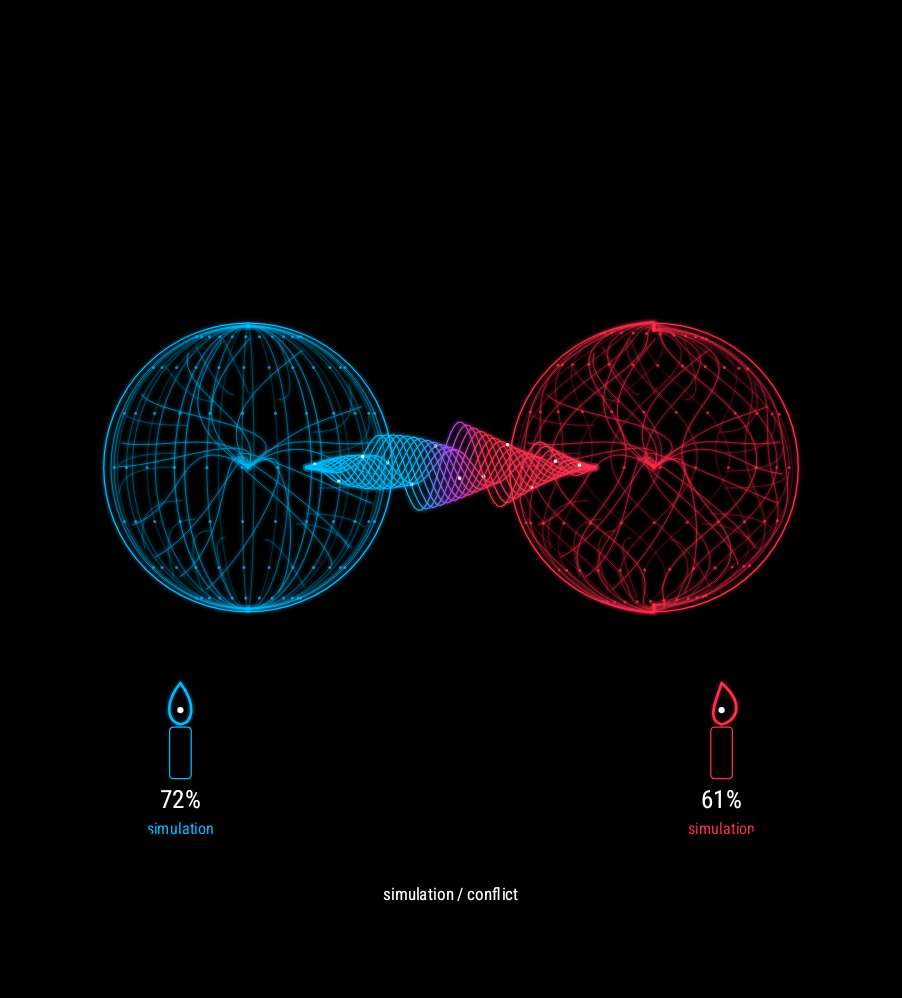
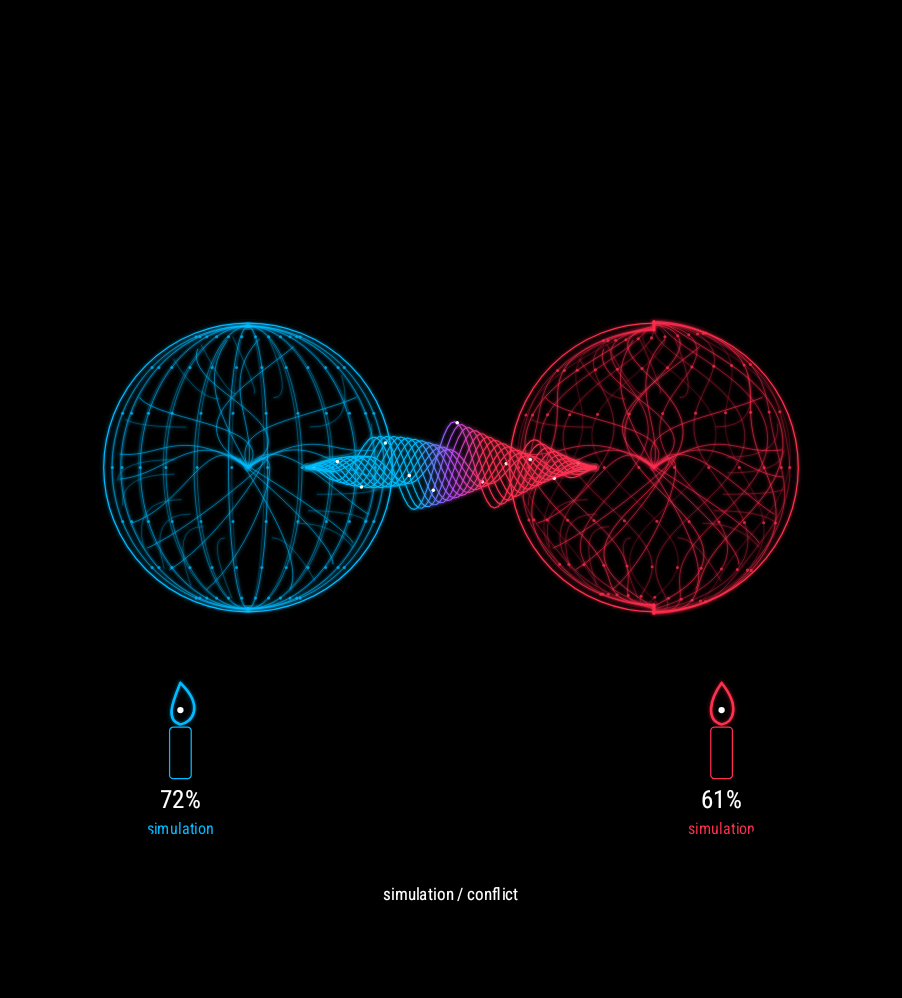
Optimize neural transition geometry

Changed region(s): [[0.1242, 0.3106, 0.9002, 0.6212], [0.7761, 0.6834, 0.8381, 0.7144], [0.1863, 0.6834, 0.2173, 0.7455]]

diff --git a/app/src/main/java/com/agentfold/app/ui/neural/NeuralDialView.kt b/app/src/main/java/com/agentfold/app/ui/neural/NeuralDialView.kt
@@ -22,6 +22,15 @@ class NeuralDialView(context: Context, val controller: NeuralController) : View(
     private val condensedTypeface = Typeface.create("sans-serif-condensed", Typeface.NORMAL)
     private var balanceShader: LinearGradient? = null
     private var shaderBalance = Float.NaN
+    private val sphereLatitude = FloatArray(65) { -PI.toFloat() / 2 + it / 64f * PI.toFloat() }
+    private val sphereSin = FloatArray(65) { sin(sphereLatitude[it]) }
+    private val sphereCos = FloatArray(65) { cos(sphereLatitude[it]) }
+    private val sphereSin3 = FloatArray(65) { sin(sphereLatitude[it] * 3f) }
+    private val sphereCos3 = FloatArray(65) { cos(sphereLatitude[it] * 3f) }
+    private val sphereSin4 = FloatArray(65) { sin(sphereLatitude[it] * 4f) }
+    private val sphereCos4 = FloatArray(65) { cos(sphereLatitude[it] * 4f) }
+    private val tendrilU = FloatArray(81) { it / 80f }
+    private val tendrilEnvelope = FloatArray(81) { sin(tendrilU[it] * PI.toFloat()) }
     private val weights = FloatArray(7).apply { this[0] = 1f }
     private val startWeights = weights.copyOf()
     private var snapshot = controller.snapshot
@@ -93,7 +102,9 @@ class NeuralDialView(context: Context, val controller: NeuralController) : View(
         } else previousFrame = 0
         val fraction = if (ValueAnimator.areAnimatorsEnabled()) ((now - transitionStart) / 1000f).coerceIn(0f, 1f) else 1f
         val eased = fraction * fraction * (3 - 2 * fraction)
-        weights.indices.forEach { weights[it] = startWeights[it] * (1 - eased) + (if (snapshot.state.ordinal == it) eased else 0f) }
+        for (i in weights.indices) {
+            weights[i] = startWeights[i] * (1 - eased) + (if (snapshot.state.ordinal == i) eased else 0f)
+        }
         val save = canvas.save()
         try {
             val side = min(width.toFloat(), height.toFloat())
@@ -147,16 +158,28 @@ class NeuralDialView(context: Context, val controller: NeuralController) : View(
         circle(c, cx, cy, r, shell, 1.4f, alpha * if (r > 300f) detail else 1f)
         if (detail < .001f) return
         // Project independently twisting spherical meridians with depth shading.
+        // Latitude terms are immutable; addition identities avoid four extra trig calls per point.
         val lanes = if (lowPower) 12 else 24
+        val clockSin = sin(clock)
+        val clockCos = cos(clock)
+        val twistClock = clock * .7f
+        val twistClockSin = sin(twistClock)
+        val twistClockCos = cos(twistClock)
         for (lane in 0 until lanes) {
             path.reset()
+            val phase = lane * 2f * PI.toFloat() / lanes + clock * .19f
             for (step in 0..64) {
-                val latitude = -PI.toFloat() / 2 + step / 64f * PI.toFloat()
-                val phase = lane * 2f * PI.toFloat() / lanes + clock * .19f
-                val longitude = phase + twist * sin(latitude * 3 + clock * .7f) * 1.45f
-                val depth = sin(longitude) * cos(latitude)
-                val x = cx + cos(longitude) * cos(latitude) * r * (.95f + twist * .05f * sin(clock + latitude * 4))
-                val y = cy + sin(latitude) * r * (.98f - twist * .12f * cos(longitude + clock))
+                val latitudeSin = sphereSin[step]
+                val latitudeCos = sphereCos[step]
+                val twistWave = sphereSin3[step] * twistClockCos + sphereCos3[step] * twistClockSin
+                val longitude = phase + twist * twistWave * 1.45f
+                val longitudeSin = sin(longitude)
+                val longitudeCos = cos(longitude)
+                val depth = longitudeSin * latitudeCos
+                val radiusWave = sphereSin4[step] * clockCos + sphereCos4[step] * clockSin
+                val x = cx + longitudeCos * latitudeCos * r * (.95f + twist * .05f * radiusWave)
+                val shiftedLongitudeCos = longitudeCos * clockCos - longitudeSin * clockSin
+                val y = cy + latitudeSin * r * (.98f - twist * .12f * shiftedLongitudeCos)
                 if (step == 0) path.moveTo(x, y) else path.lineTo(x, y)
                 if (step % 8 == 0 && depth > 0f) dot(c, x, y, 1.7f, color, alpha * .75f)
             }
@@ -188,20 +211,30 @@ class NeuralDialView(context: Context, val controller: NeuralController) : View(
                 floatArrayOf(0f, (shaderBalance - .12f).coerceIn(.01f, .85f), shaderBalance.coerceIn(.02f, .98f),
                     (shaderBalance + .12f).coerceIn(.15f, .99f), 1f), Shader.TileMode.CLAMP)
         }
+        val frequency = PI.toFloat() * (4f + conflict * 3f)
+        val phaseStep = frequency / 80f
+        val phaseStepSin = sin(phaseStep)
+        val phaseStepCos = cos(phaseStep)
+        val basePhase = -clock * 1.8f
         for (strand in 0..11) {
             path.reset()
+            var phaseSin = sin(basePhase + strand * .53f)
+            var phaseCos = cos(basePhase + strand * .53f)
+            val amplitude = 20f + strand * 2.8f
             for (step in 0..80) {
-                val u = step / 80f
+                val u = tendrilU[step]
                 val x = -160f + u * 320f
-                val envelope = sin(u * PI.toFloat())
-                val y = -35f + sin(u * PI.toFloat() * (4 + conflict * 3) - clock * 1.8f + strand * .53f) * envelope * (20f + strand * 2.8f)
+                val y = -35f + phaseSin * tendrilEnvelope[step] * amplitude
                 if (step == 0) path.moveTo(x, y) else path.lineTo(x, y)
+                val nextSin = phaseSin * phaseStepCos + phaseCos * phaseStepSin
+                phaseCos = phaseCos * phaseStepCos - phaseSin * phaseStepSin
+                phaseSin = nextSin
             }
             ink.shader = balanceShader
             glow(c, path, Color.WHITE, 1.2f, alpha)
             ink.shader = null
             val u = ((clock * .18f + strand * .083f) % 1f)
-            val y = -35f + sin(u * PI.toFloat() * (4 + conflict * 3) - clock * 1.8f + strand * .53f) * sin(u * PI.toFloat()) * (20f + strand * 2.8f)
+            val y = -35f + sin(u * frequency + basePhase + strand * .53f) * sin(u * PI.toFloat()) * amplitude
             dot(c, -160f + u * 320f, y, 2f, Color.WHITE, alpha)
         }
     }

diff --git a/app/src/androidTest/java/com/agentfold/app/NeuralRenderingTest.kt b/app/src/androidTest/java/com/agentfold/app/NeuralRenderingTest.kt
@@ -48,4 +48,20 @@ class NeuralRenderingTest {
             onMain(scenario) { assertFalse(it.visualController.snapshot.preview) }
         }
     }
+
+    @Test fun exerciseAllStatesWithoutCapture() {
+        ActivityScenario.launch(MainActivity::class.java).use { scenario ->
+            for (state in VisualState.entries) {
+                onMain(scenario) { it.visualController.preview(state) }
+                Thread.sleep(1300)
+                onMain(scenario) { activity ->
+                    val view = requireNotNull(find(activity.window.decorView))
+                    assertTrue(view.width > 0 && view.height > 0)
+                    assertFalse(view.contentDescription.toString().contains("unavailable"))
+                    assertTrue(view.contentDescription.toString().contains("simulation"))
+                }
+            }
+            onMain(scenario) { it.visualController.endPreview() }
+        }
+    }
 }

diff --git a/docs/NEURAL_UI.md b/docs/NEURAL_UI.md
@@ -156,12 +156,10 @@ not changed.
 
 ## Integration-readiness cycle — 2026-11-13
 
-Branch `feature/neural-dial-ui` was inspected clean at commit
-`f69c3cce3ba2cc0a9c7247e059cb79c43f2a78cb`. The branch is pushed and the verified comparison URL is
-<https://github.com/spirokopita/agentic-fold-test/compare/main...feature/neural-dial-ui?expand=1>.
-No existing PR could be queried and no draft PR could be created because GitHub CLI has no authenticated
-session and the browser access host is unavailable. The exact draft body is retained in
-`docs/DRAFT_PR.md`; PR creation is not claimed complete.
+Branch `feature/neural-dial-ui`, remote branch and draft PR #2 were confirmed at checkpoint
+`2f0170b56895fa11f48bada8a699f75393f87fbb` before this cycle.
+Draft PR: <https://github.com/spirokopita/agentic-fold-test/pull/2>. Keep it draft; do not merge.
+The exact current PR body remains mirrored in `docs/DRAFT_PR.md`.
 
 ### Fresh visual evidence and fidelity matrix
 
@@ -223,7 +221,57 @@ Outstanding: authenticated draft PR creation; recovery of all 24 real reference 
 CPU/GPU/allocation/battery/fold testing; owner voice/widget/TalkBack/live-provider/SAF/permission and
 device-automation checks; production signing/migration.
 
-**Exact next engineering action:** authenticate GitHub in an authorised browser or GitHub CLI, create
-the draft PR using `docs/DRAFT_PR.md`, then recover
-`AgenticFold-AI-UI-All-Chat-Images-2026-11-13.zip` and perform an asset-by-asset visual/motion
-comparison before any renderer fidelity changes.
+**Exact next engineering action:** connect an authorised physical Fold, run the no-capture harness and
+Perfetto workload against its explicit serial without clearing app data, then recover
+`AgenticFold-AI-UI-All-Chat-Images-2026-11-13.zip` from the ChatGPT Library and perform the
+asset-by-asset visual/motion comparison before any fidelity-driven renderer changes.
+
+## Performance optimisation cycle — 2026-11-13
+
+Perfetto was recorded before code changes with the official recorder. The pre-change capture trace
+reported 201 main-thread `Record View#draw()` calls totalling 897.64 ms (4.47 ms average), but
+`postAndWait` totalled 14,321.72 ms (71.25 ms average). Frame timeline entries were dominated by
+SurfaceFlinger CPU deadline misses and buffer stuffing. This separates material emulator/HWUI
+synchronization from Kotlin draw-recording cost. The capture test also draws and compresses seven
+full-size PNGs on the Activity thread, so its historical 40 ms median / 109 ms P95 is not a pure
+renderer benchmark.
+
+A new `exerciseAllStatesWithoutCapture` instrumentation test exercises the identical seven states and
+1.3-second observation windows without bitmap creation or PNG compression. Three pre-change and three
+post-change runs used the same eight-second in-flight `dumpsys gfxinfo` sampling procedure:
+
+| No-capture three-run median | Before | After | Change |
+| --- | ---: | ---: | ---: |
+| CPU frame median | 53 ms | 40 ms | -24.5% |
+| CPU frame P95 | 200 ms | 150 ms | -25.0% |
+| modern deadline-miss rate | 49.07% | 34.87% | -14.20 percentage points |
+| frames rendered in sample | 108 | 151 | +39.8% |
+| GPU frame median | 18 ms | 17 ms | effectively unchanged |
+
+The optimization preserves all lane, sample, strand and glow counts. It precomputes immutable sphere
+latitude sine/cosine terms and tendril envelopes, applies angle-addition identities for per-point
+sphere deformation, and advances evenly spaced tendril phases by recurrence rather than evaluating a
+sine for every sample. Fresh captures were inspected: both blue boundaries, independent white packets,
+sphere deformation, branches, app link, braided peer strands, infection progression, candles and
+simulation labels remain present.
+
+The single post-change traced PNG-capture sample was noisier than the pre-change trace, with
+`postAndWait` averaging 81.56 ms versus 71.25 ms. It is retained as evidence of emulator variability,
+not claimed as an improvement. GPU sentinel buckets of 4950 ms were emitted in some in-flight samples
+and are not treated as literal GPU durations. No 60 FPS claim is made. Full analysis and reproducible
+SQL are in `docs/PERFETTO_NEURAL_ANALYSIS.md`; raw 22.9/20.8 MB traces are retained locally under
+`app/build/reports/perfetto/` and excluded from Git.
+
+Post-change verification on `Medium_Phone` API 35:
+
+- unit tests: 19 passed, 0 failed, 0 skipped;
+- APK and Android-test APK assembly: passed;
+- focused capture workload: 1 passed;
+- no-capture harness: three direct runs passed;
+- complete instrumentation suite: 21 passed, 0 failed, 0 skipped, 0 unfinished in 2m44s;
+- all five PDF tests, rotation/STOP, navigation, fallback/lifecycle coverage and preview isolation remain green.
+
+Only `emulator-5554` was attached; no physical Fold was available. No physical install, permission,
+accessibility, provider or automation action was attempted. The reference archive and its named PNG/GIF
+members were searched in the project, Downloads, Documents and Desktop and remain inaccessible. The
+ChatGPT Library is outside this IDE session, so fidelity remains UNVERIFIED.

diff --git a/docs/PERFETTO_NEURAL_ANALYSIS.md b/docs/PERFETTO_NEURAL_ANALYSIS.md
@@ -1,0 +1,97 @@
+# Neural transition Perfetto analysis — API 35 emulator
+
+## Question
+
+Which part of the seven-state workload is responsible for the reported frame misses, and does the
+renderer optimization reduce comparable renderer-only cost?
+
+## Hardware and traces
+
+- Device: Android Studio `Medium_Phone` AVD, `sdk_gphone64_x86_64`, Android 15 / API 35.
+- Package: `com.agentfold.app.recovery`.
+- Pre-change trace: `app/build/reports/perfetto/neural-transition-before.perfetto-trace`
+  (22,925,660 bytes).
+- Post-change trace: `app/build/reports/perfetto/neural-transition-after.perfetto-trace`
+  (20,775,410 bytes).
+- Recorder: official Perfetto `record_android_trace`, 30 seconds, 64 MiB, categories
+  `sched gfx view wm am freq`, app-scoped atrace.
+- Trace processor: Perfetto v58.3.
+- Trace integrity: no positive drop/loss/failure stats were returned.
+
+Raw traces are retained locally under the ignored Gradle build directory and are not committed because
+they total about 43 MiB. Re-run commands and validated queries are recorded below.
+
+## Findings
+
+- [SQL] In the pre-change capture trace, main-thread `Record View#draw()` accounted for 897.64 ms
+  across 201 calls (4.47 ms average), whereas `postAndWait` accounted for 14,321.72 ms
+  (71.25 ms average). `draw-VRI[MainActivity]` totalled 15,498.19 ms.
+- [SQL] Frame-timeline jank was dominated by SurfaceFlinger CPU deadline misses and buffer stuffing.
+- [INFERRED] The emulator/HWUI synchronization path, not Kotlin geometry alone, dominates the
+  screenshot workload. PNG capture additionally performs `view.draw(Canvas(bitmap))` and
+  `Bitmap.compress` on the Activity thread, so the original 40/109 ms result is not a clean
+  animation-only benchmark.
+- [SQL] The post-change traced capture sample was noisier: `Record View#draw()` averaged 7.01 ms and
+  `postAndWait` 81.56 ms. It is not evidence of capture-workload improvement.
+- [SQL] Three comparable no-capture runs provide the useful A/B signal. Their median CPU-frame median
+  improved from 53 ms to 40 ms; median P95 improved from 200 ms to 150 ms; median deadline-miss rate
+  improved from 49.07% to 34.87%; median rendered frames in the eight-second sample rose from 108 to
+  151. GPU median remained 17–18 ms.
+- [GAP] The emulator reports 4950 ms GPU sentinel buckets during some runs. They are not interpreted
+  as literal GPU execution time.
+- [GAP] No physical Fold, representative hardware GPU trace, or per-frame Java allocation trace was
+  available.
+
+## Implemented optimization
+
+The renderer retains the same lane, step, strand and glow counts. Immutable sphere latitude sine/cosine
+terms and tendril envelopes are precomputed. Angle-addition identities replace repeated latitude,
+shifted-longitude and tendril sample trigonometry. A recurrence advances the evenly spaced tendril
+phase. Visual captures confirm that both boundaries, packet field, sphere deformation, branches,
+braids, infection progression and candles remain present.
+
+## Validated queries
+
+```sql
+INCLUDE PERFETTO MODULE slices.with_context;
+SELECT *
+FROM thread_or_process_slice
+LIMIT 0;
+
+SELECT stats.name, stats.severity, stats.value
+FROM stats
+WHERE stats.value > 0
+  AND regexp('drop|loss|fail', stats.name, 'i')
+ORDER BY stats.value DESC
+LIMIT 20;
+
+SELECT
+  thread_or_process_slice.name,
+  count(*) AS calls,
+  round(sum(thread_or_process_slice.dur) / 1e6, 2) AS total_ms,
+  round(avg(thread_or_process_slice.dur) / 1e6, 2) AS avg_ms,
+  round(max(thread_or_process_slice.dur) / 1e6, 2) AS max_ms
+FROM thread_or_process_slice
+JOIN process ON thread_or_process_slice.upid = process.upid
+JOIN thread ON thread_or_process_slice.utid = thread.utid
+WHERE process.name = 'com.agentfold.app.recovery'
+  AND thread.is_main_thread = 1
+  AND thread_or_process_slice.name IN (
+    'Record View#draw()', 'draw-VRI[MainActivity]', 'postAndWait', 'traversal'
+  )
+GROUP BY thread_or_process_slice.name
+ORDER BY thread_or_process_slice.name;
+
+SELECT actual_frame_timeline_slice.jank_type, count(*) AS frames
+FROM actual_frame_timeline_slice
+JOIN process ON actual_frame_timeline_slice.upid = process.upid
+WHERE process.name = 'com.agentfold.app.recovery'
+GROUP BY actual_frame_timeline_slice.jank_type
+ORDER BY frames DESC;
+```
+
+## Remaining questions
+
+Repeat the no-capture harness and Perfetto trace on an authorised physical Fold. Capture allocation
+counts with Android Studio Memory Profiler or a supported ART allocation source, then test fold/unfold,
+background/resume and thermal/battery behaviour. Do not claim 60 FPS from the emulator results.

diff --git a/docs/DRAFT_PR.md b/docs/DRAFT_PR.md
@@ -24,14 +24,18 @@ Preview data is visual-only. It cannot dispatch tools, contact providers or peer
 - Cached condensed typeface and balance-keyed gradient.
 - Removed per-frame temporary weight-array allocation.
 - Hoisted invariant arc bounds out of the packet loop.
+- Precomputed immutable sphere latitude and tendril-envelope trigonometric terms.
+- Replaced repeated shifted-angle calculations with angle-addition identities.
+- Advanced evenly spaced tendril samples with a sine/cosine recurrence while retaining 81 points per strand.
 
 API 35 Medium_Phone measurements:
 
 - Cold launch TotalTime samples: 4370, 1539, 1837, 1948, 1902 ms (median 1902 ms).
 - Warm launch WaitTime samples: 98, 205, 144, 103, 105 ms (median 105 ms).
 - Hot launch WaitTime samples: 26, 34, 27, 21, 30 ms (median 27 ms).
-- During all-seven-state capture: 40 ms median / 109 ms P95 CPU frame time; 16 ms median / 22 ms P95 GPU time; 178/644 modern deadline misses (27.64%).
-- In-flight memory: 59,928 KiB total PSS; 9,332 KiB Java heap PSS; 29,472 KiB native heap PSS.
+- Historical all-state PNG-capture sample: 40 ms median / 109 ms P95 CPU; 16/22 ms GPU; 178/644 deadline misses. PNG drawing/compression occurs on the Activity thread and is not a clean renderer-only benchmark.
+- Three-run no-capture median before → after: CPU median 53 → 40 ms; CPU P95 200 → 150 ms; deadline-miss rate 49.07% → 34.87%; rendered frames 108 → 151; GPU median 18 → 17 ms.
+- Perfetto shows emulator/HWUI `postAndWait` and buffer stuffing dominate the capture workload. A single post-change traced capture was noisier, so it is retained as variability evidence rather than claimed as improvement.
 - No 60 FPS claim is made. Physical Fold profiling and allocation tracing remain outstanding.
 
 ## Rotation-stall diagnosis
@@ -42,8 +46,9 @@ The earlier apparent rotation hang was not reproduced as an application deadlock
 
 - Focused rotation test: 1 passed, 0 failed, 0 skipped, 0 unfinished.
 - Diagnostic full instrumentation: 20 passed, 0 failed, 0 skipped, 0 unfinished.
-- Final post-change instrumentation: 20 passed, 0 failed, 0 skipped, 0 unfinished.
-- Unit tests: 19 passed, 0 failed, 0 skipped.
+- Historical post-allocation-cleanup instrumentation: 20 passed, 0 failed, 0 skipped, 0 unfinished.
+- Current post-trigonometry instrumentation: 21 passed, 0 failed, 0 skipped, 0 unfinished.
+- Current unit tests: 19 passed, 0 failed, 0 skipped.
 - All five PDF instrumentation tests passed, including the corrected runtime-tool registry assertion.
 - Fresh seven-state capture test: 1 passed; captures retained in `docs/neural-evidence/`.
 
@@ -57,4 +62,4 @@ The earlier apparent rotation hang was not reproduced as an application deadlock
 
 ## Evidence
 
-See `docs/NEURAL_UI.md`, `docs/neural-evidence/`, and `app/build/outputs/androidTest-results/connected/debug/`.
+See `docs/NEURAL_UI.md`, `docs/PERFETTO_NEURAL_ANALYSIS.md`, `docs/neural-evidence/`, and `app/build/outputs/androidTest-results/connected/debug/`. Draft PR: https://github.com/spirokopita/agentic-fold-test/pull/2

diff --git a/docs/CHANGELOG.md b/docs/CHANGELOG.md
@@ -1,3 +1,11 @@
+## Unreleased — neural dial performance follow-up (2026-11-13)
+
+- Added a no-capture seven-state performance harness to separate renderer cost from PNG evidence generation.
+- Precomputed immutable sphere/tendril trigonometric terms and replaced per-sample tendril sine evaluation with a recurrence without reducing geometry, strands or glow layers.
+- Recorded official Perfetto before/after traces and reproducible SQL; repeated renderer-only samples improved CPU median and P95 while emulator HWUI buffer stuffing remains material.
+- Post-change API 35 validation: 19 unit tests and 21 instrumentation tests passed, including all five PDF tests, rotation/STOP and both neural workloads.
+- Draft PR #2 remains open. Reference assets, physical Fold profiling, owner integrations and production signing remain pending.
+
 ## v0.7.0 — source-only prototype (2026-10-29)
 
 - Changed product focus from fold-specific dashboard to normal Android application with a tiny 1x1 microphone ON/OFF home widget; dashboard preserved for diagnostics.
